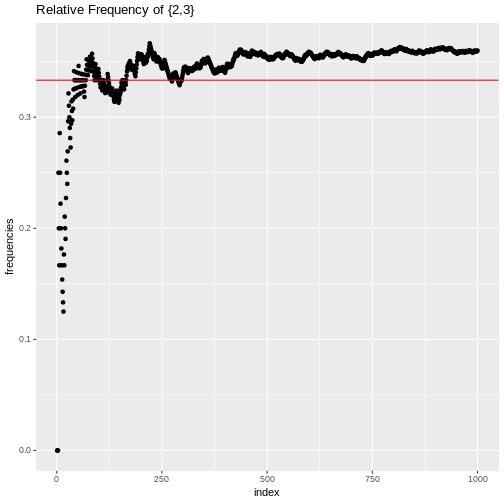
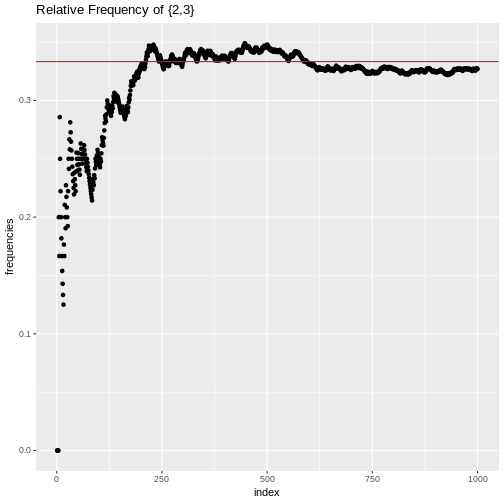
weeks 1 and 2 edited

diff --git a/presentations/week2.html b/presentations/week2.html
@@ -121,7 +121,7 @@ sum(result1 %in% E) #This will give you the number of times E occurred
 ```
 
 ```
-## [1] 360
+## [1] 327
 ```
 
 ```r
@@ -131,7 +131,7 @@ table(result1)# see a table of the results. These shouldn't vary too much
 ```
 ## result1
 ##   1   2   3   4   5   6 
-## 160 186 174 170 158 152
+## 180 151 176 156 151 186
 ```
 ---
 ## Chart of the relative frequency approach
@@ -427,6 +427,7 @@ prod(366:(366-1+1))
 ## [1] 9.234463e-06
 ```
 ---
+
 ## Conditional Probability
 
 - Often, we have events that influence the probability of other events. In mathematical terms, we often have event B which influences the probability of event A
@@ -436,8 +437,8 @@ prod(366:(366-1+1))
 - For any two events A and B with P(B) &gt; 0, P(A|B) is defined by :
 
 `$$P(A|B) = \frac{P(A\cap B)}{P(B)}$$`
-
 --- 
+---
 ## Examples
 
 - Roll a die twice, what is the probability that the total we get will be a 3? Given that the first number is 1, what is the probability that the total we get is 3?
@@ -463,7 +464,7 @@ n&lt;- 6*6 #number of total outcomes
 ---
 ## More on conditional probability
 - The multiplication rule: The probability that two events A and B both occur is given by the multiplication rule
-`$$P(A \cap B) = P(A|B) \times P(B)$$`
+`$$P(A \cap B) = P(A|B) \times{P(B)}$$`
 `$$P(A \cap B) = P(B|A) \ times P(A)$$`
 
 ---
@@ -482,7 +483,7 @@ n&lt;- 6*6 #number of total outcomes
 ## [1] 0.4
 ```
 ---
-## Multiplication rule extensio
+## Multiplication rule extension
 - We can extend the multiplication rule to three of more events
 .center[thus:] 
 `$$P(A\cap{B}\cap{C}) = P(C|A\cap{B})\times{P(A\cap{B})}$$`
@@ -500,12 +501,14 @@ n&lt;- 6*6 #number of total outcomes
 ```
 ## [1] 0.0004826546
 ```
---- 
+---
+
 ## Law of total probability
+
 - Suppose `\(A_1,A_2,...,A_n\)` form a partition of sample space S, then for any event B, it is true that 
 $$P(B) = P(A_1\cap{B})+ P(A_2\cap{B})+...+P(A_n\cap{B}) = $$
 `$$P(A_1)\times P(B|A_1)+ P(A_2)\times P(B|A_2) + P(A_n)\times P(B|A_n)$$`
-- This leads us into a deeper understanding of Bayes Theorem
+- This leads us to a deeper understanding of Bayes Theorem
 
 ---
 ## Bayes theorem
